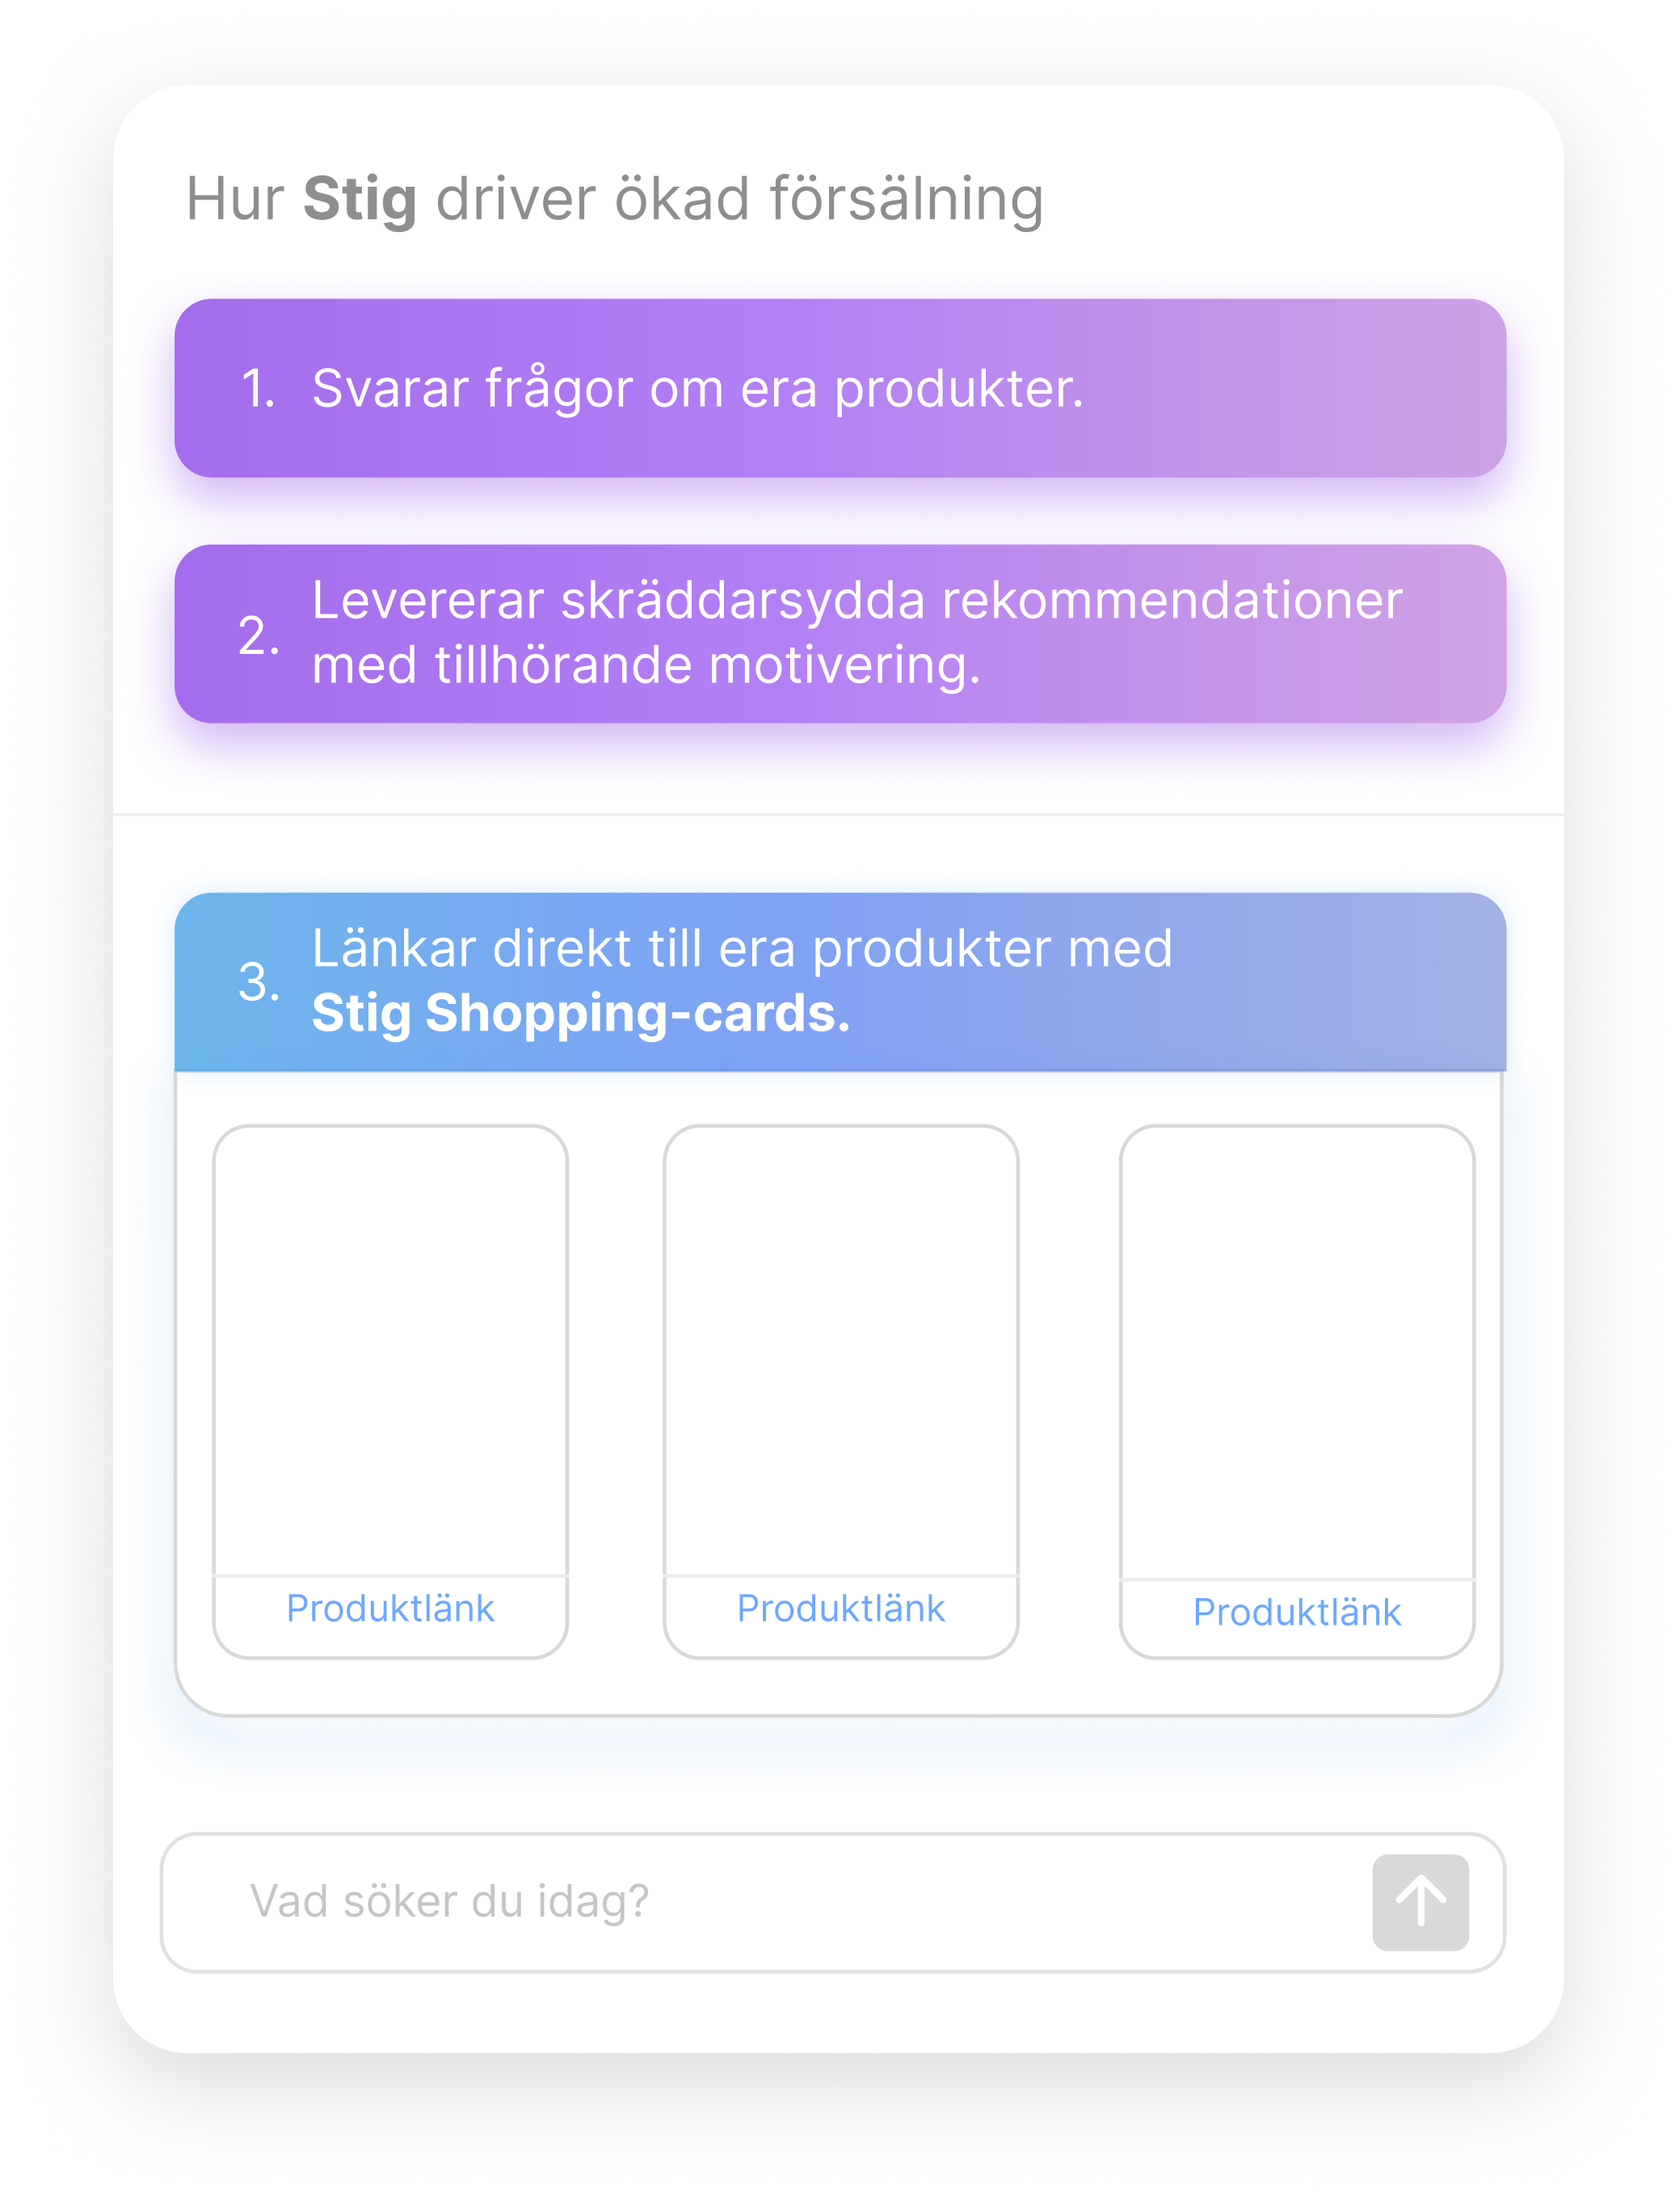
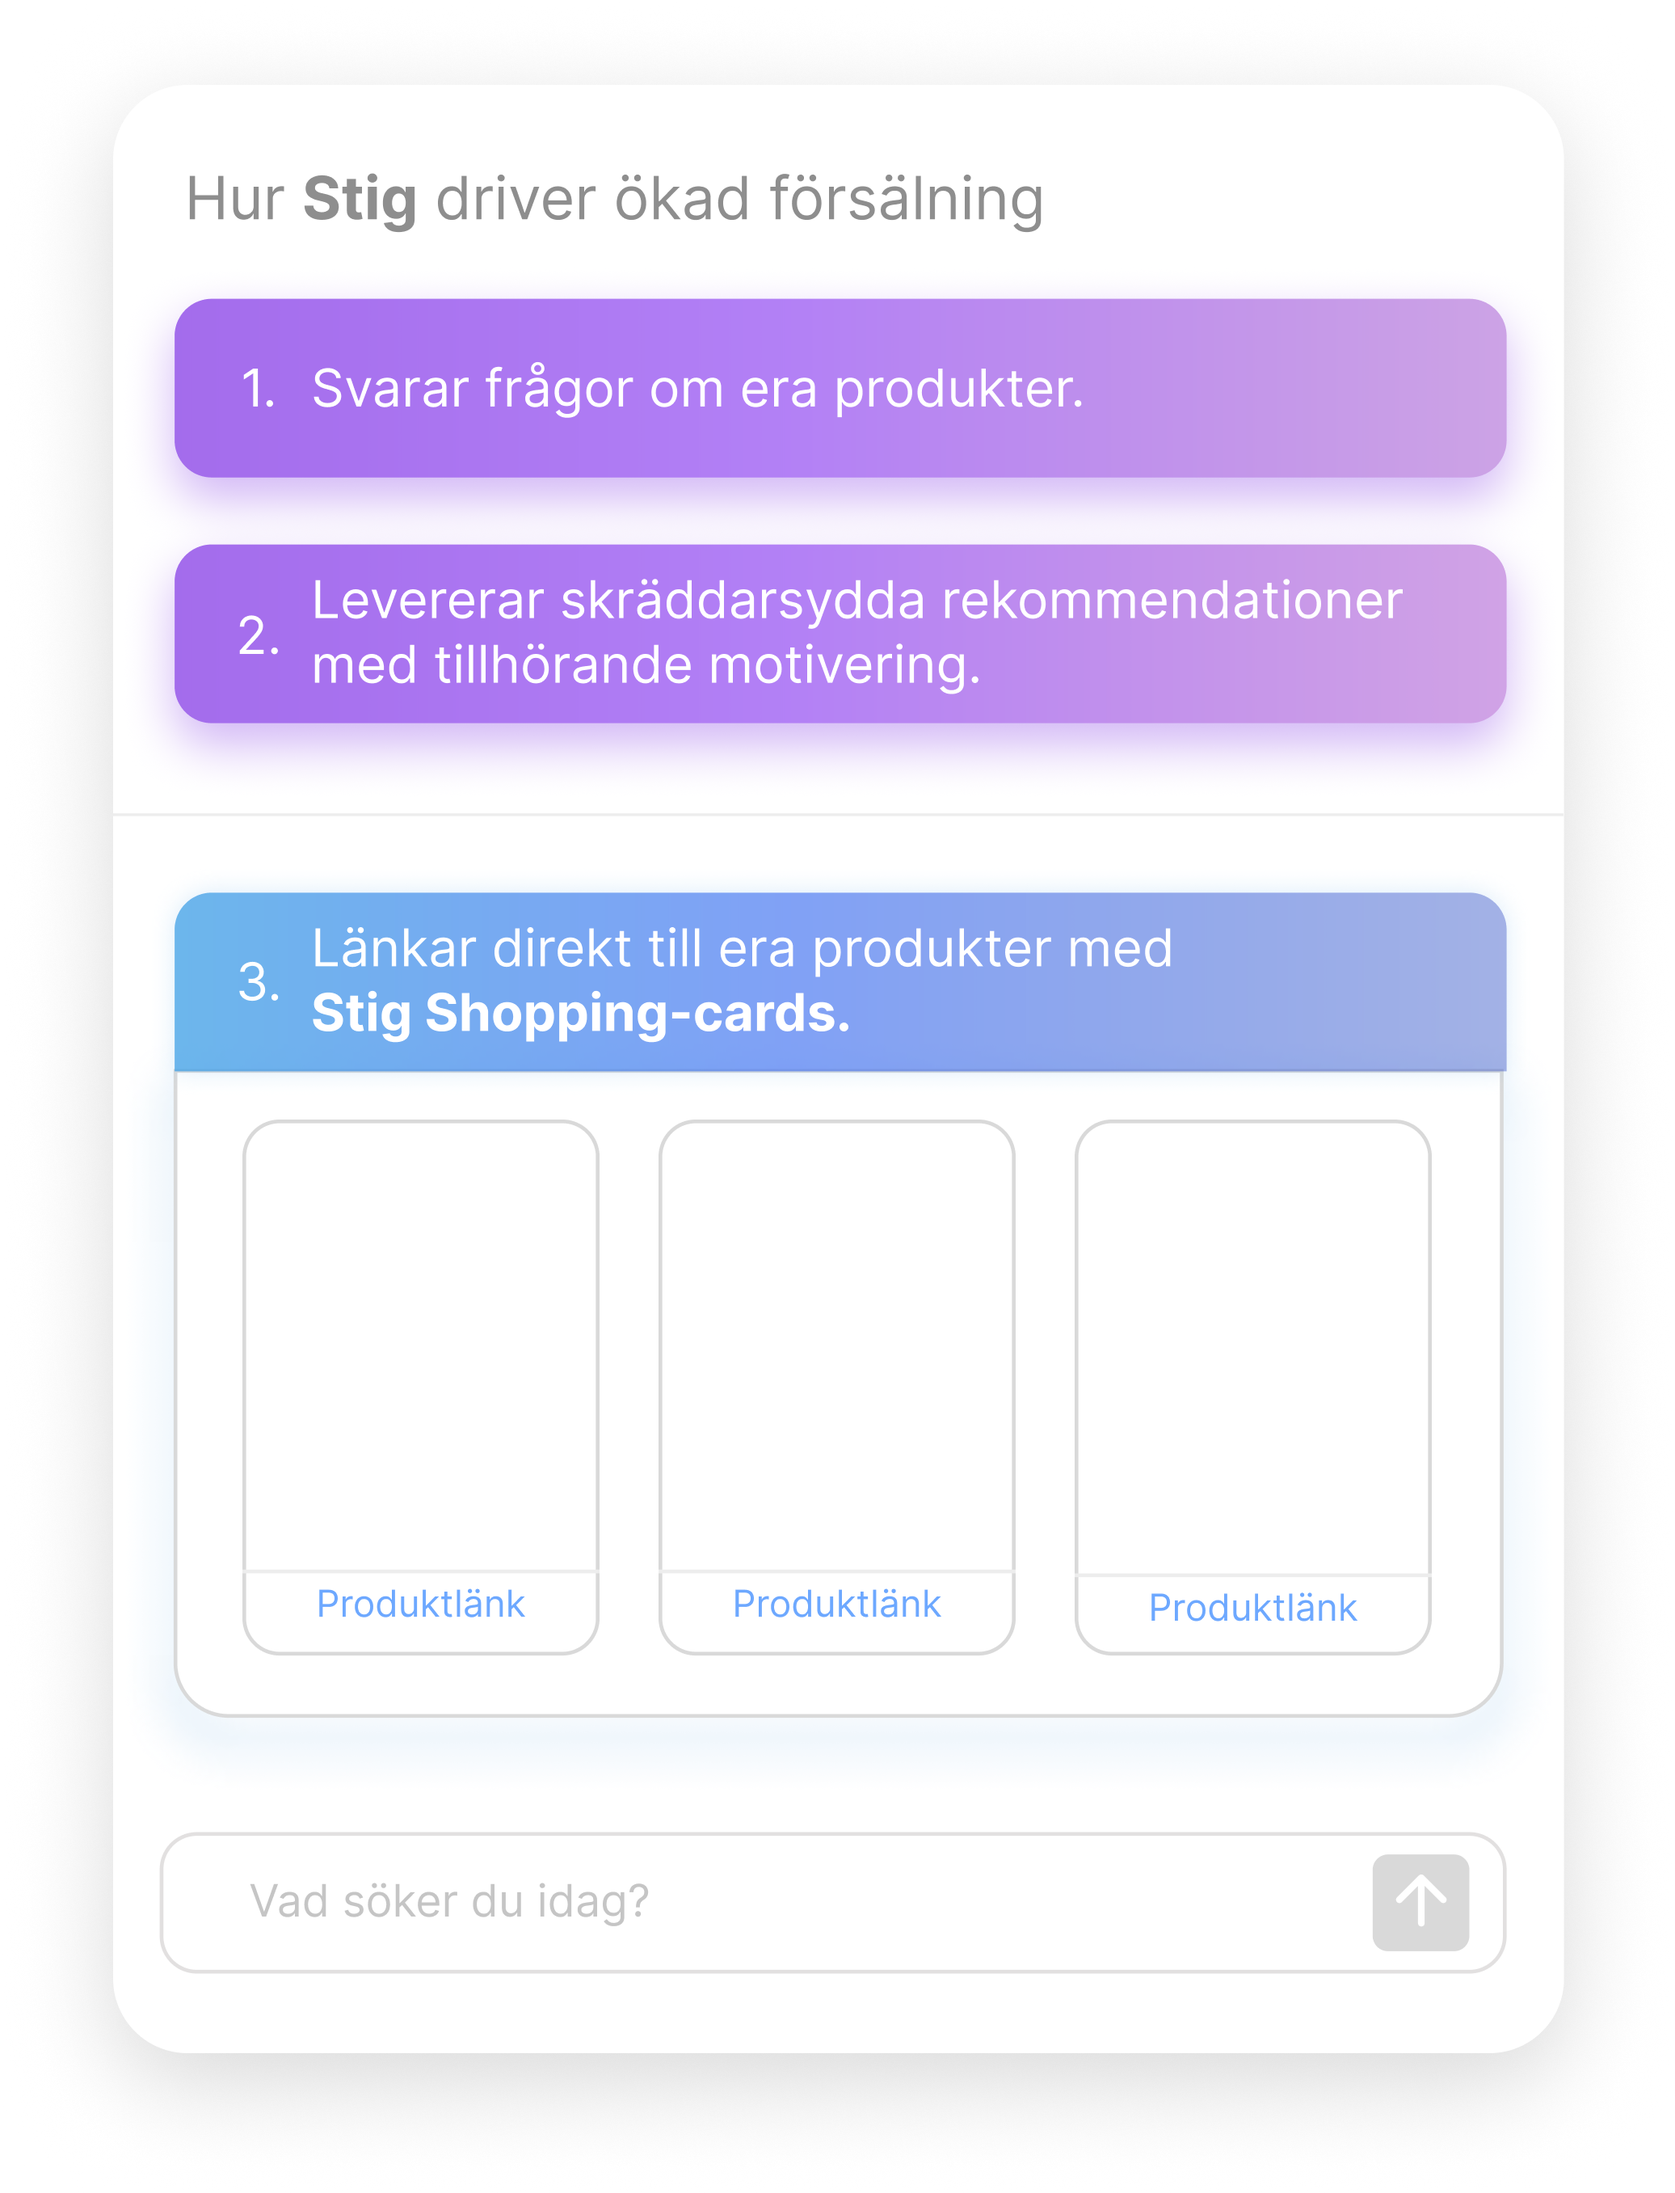
new base

diff --git a/overlay.py b/overlay.py
@@ -57,10 +57,11 @@ def add_book_cover_to_mockup(mockup_url: str, cover_urls: list, output_path: str
 
 # Correct coordinates for each area
 areas = [
-    (282, 1404, 684, 1943),  # Updated from coords="282,1404,684,1943"
-    (834, 1405, 1250, 1945), # Updated from coords="834,1405,1250,1945"
-    (1398, 1404, 1815, 1949) # Updated from coords="1398,1404,1815,1949"
+    (316, 1404, 728, 1936),  # Updated from coords="316,1404,728,1936"
+    (830, 1405, 1243, 1936), # Updated from coords="830,1405,1243,1936"
+    (1345, 1405, 1760, 1941) # Updated from coords="1345,1405,1760,1941"
 ]
+
 
 
 
@@ -72,7 +73,7 @@ mockup_output = add_book_cover_to_mockup(
         'https://glitter.se/bilder/artiklar/zoom/172000968300_1.jpg?m=1712929519',
         'https://glitter.se/bilder/artiklar/zoom/172001227600_1.jpg?m=1709539390'
     ],
-    output_path='.png',
+    output_path='glitter_test_ny.png',
     areas=areas
 )
 
